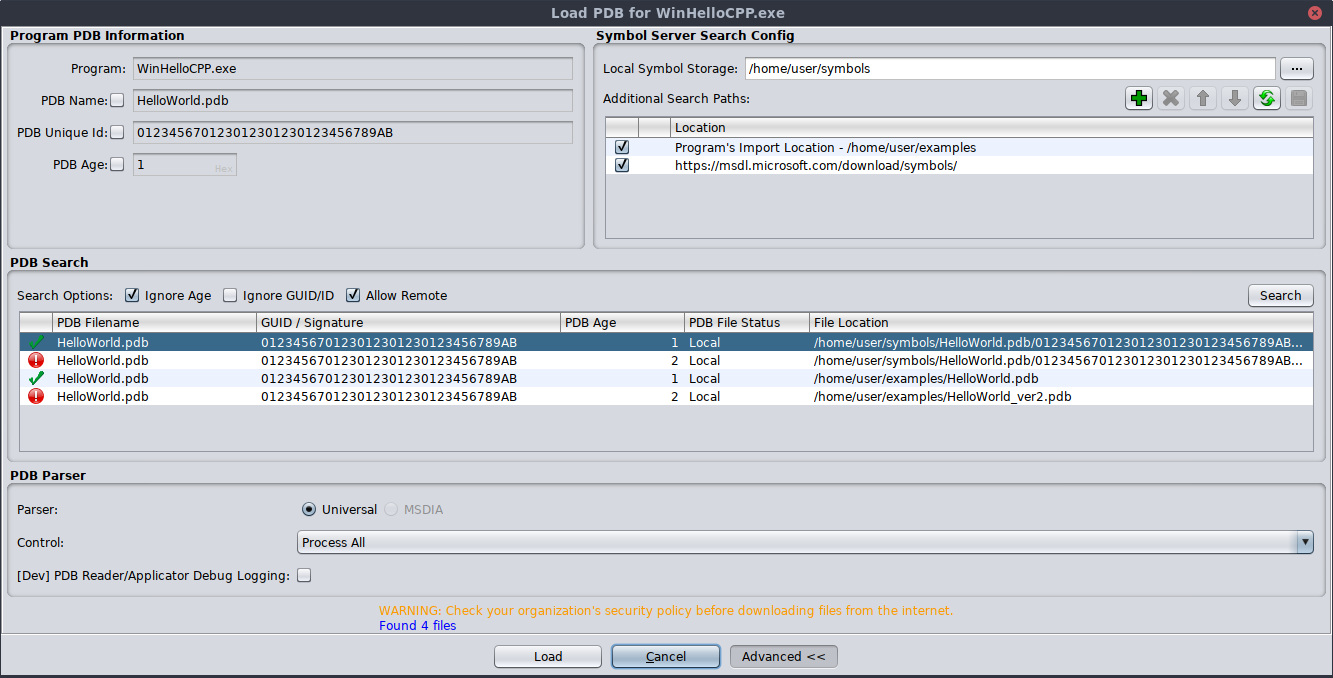
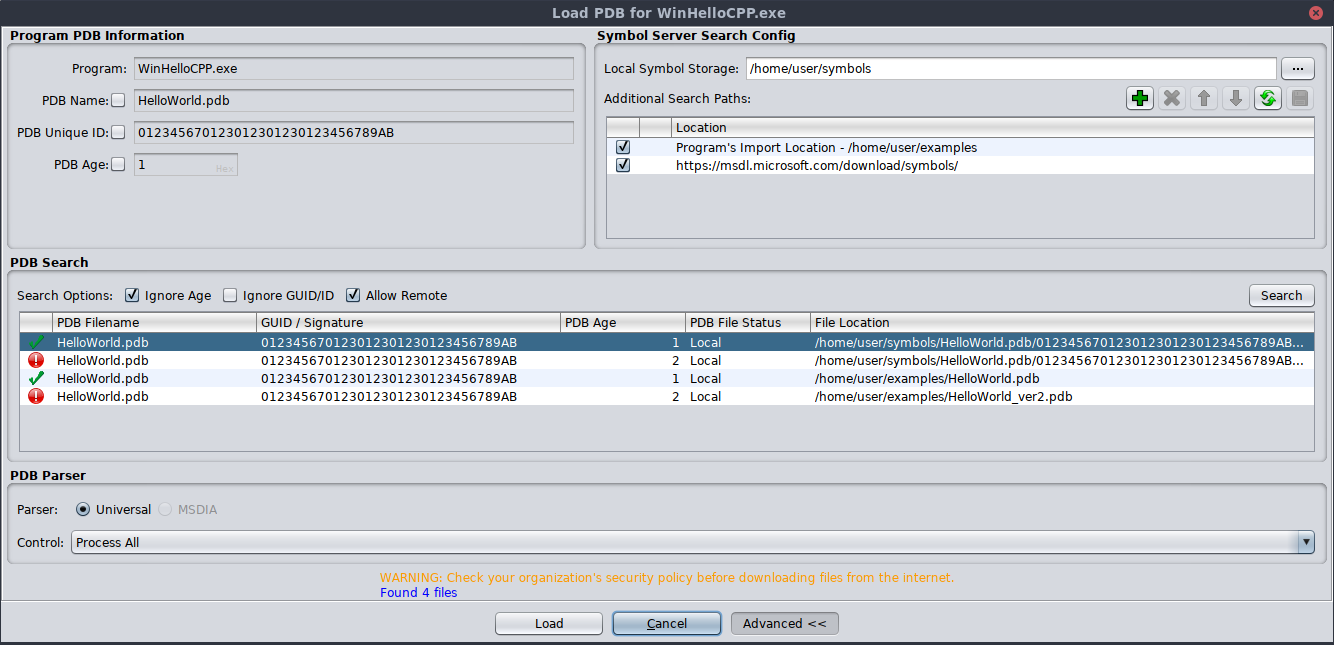
GP-42 tweak symbol dir bootstrap logic, misc text & help

Changed region(s): [[0.0, 0.3411, 1.0, 0.6512], [0.0, 0.6822, 1.0, 1.0], [0.0, 0.0, 1.0, 0.2791]]

diff --git a/Ghidra/Features/PDB/src/main/help/help/topics/Pdb/LoadPDBNew.html b/Ghidra/Features/PDB/src/main/help/help/topics/Pdb/LoadPDBNew.html
@@ -184,7 +184,7 @@
 			change the search criteria, they are not persisted to your program's metadata.</P>
 			<UL>
 				<LI><B>PDB Name Checkbox</B> - this checkbox allows entering a custom value for the desired PDB file name.</LI>
-				<LI><B>PDB Unique Id Checkbox</B> - this checkbox allows entering a custom GUID or ID value.</LI>
+				<LI><B>PDB Unique ID Checkbox</B> - this checkbox allows entering a custom GUID or ID value.</LI>
 				<LI><B>PDB Age Checkbox</B> - this checkbox allows entering a custom age value.</LI>
 			</UL>
 			<P>After changing a search option, you will need to perform another search to use the new options.</P>
@@ -198,7 +198,12 @@
 			<UL>
 				<LI><B>Universal</B> - Platform-independent PDB analyzer (No PDB.XML support).</LI>
 				<LI><B>MSDIA</B> - Legacy PDB Analyzer.  Requires MS DIA-SDK for raw PDB processing (Windows only), or preprocessed PDB.XML file.</LI>
-				<LI><B>Control</B> - Process All, Data Types Only, Public Symbols Only.</LI>
+			</UL>
+			<P><B>Control</B> (Universal only) - Controls how the PDB is applied to the Program</P>
+			<UL>
+				<LI><B>Process All</B>: Applies Data Types and Public, Global, and Module Symbols.</LI>
+				<LI><B>Data Types Only</B>: Applies Data Types and Typedefs found in the Global Symbols.</LI>
+				<LI><B>Public Symbols Only</B>: Applies only Public symbols to the program.  It ignores Global symbols and Module symbols.</LI>
 			</UL>
 		</BLOCKQUOTE>
 	</BLOCKQUOTE>

diff --git a/Ghidra/Features/PDB/src/main/java/pdb/symbolserver/LocalSymbolStore.java b/Ghidra/Features/PDB/src/main/java/pdb/symbolserver/LocalSymbolStore.java
@@ -15,9 +15,8 @@
  */
 package pdb.symbolserver;
 
-import java.util.*;
-
 import java.io.*;
+import java.util.*;
 
 import org.apache.commons.io.FilenameUtils;
 
@@ -33,6 +32,8 @@ import utilities.util.FileUtilities;
  */
 public class LocalSymbolStore extends AbstractSymbolServer implements SymbolStore {
 	private static final String ADMIN_DIRNAME = "000admin"; // per MS custom
+	private static final Set<File> ALREADY_WARNED_ABOUT =
+		Collections.synchronizedSet(new HashSet<>());
 
 	/**
 	 * Predicate that returns true if the location string is a LocalSymbolStore path
@@ -152,7 +153,47 @@ public class LocalSymbolStore extends AbstractSymbolServer implements SymbolStor
 		if (pingMeFile.isFile() && adminDir.isDirectory()) {
 			return super.detectStorageLevel(monitor);
 		}
+		return doHackyStorageLevelDetection(monitor);
+	}
+
+	private int doHackyStorageLevelDetection(TaskMonitor monitor) {
+		// dig through the files in the rootDir and see if there is anything
+		// that looks like a level1 or level2 directory.
+		if (containsPdbSymbolDirsWithFiles(rootDir)) {
+			if (ALREADY_WARNED_ABOUT.add(rootDir)) {
+				Msg.warn(this,
+					"Symbol directory missing control files, guessing storage scheme as level 1: " +
+						rootDir);
+			}
+			return 1;
+		}
+		File[] possibleLevel2SymbolDirs =
+			list(rootDir, f -> f.isDirectory() && f.getName().length() == 2);
+		for (File dir : possibleLevel2SymbolDirs) {
+			if (containsPdbSymbolDirsWithFiles(dir)) {
+				if (ALREADY_WARNED_ABOUT.add(rootDir)) {
+					Msg.warn(this,
+						"Symbol directory missing control files, guessing storage scheme as level 2: " +
+							rootDir);
+				}
+				return 2;
+			}
+		}
 		return 0;
+	}
+
+	private boolean containsPdbSymbolDirsWithFiles(File testDir) {
+		File[] possibleLevel1SymbolDirs =
+			list(testDir, f -> f.isDirectory() && f.getName().toLowerCase().endsWith(".pdb"));
+		for (File dir : possibleLevel1SymbolDirs) {
+			if (list(dir, f -> f.isDirectory() &&
+				SymbolFileInfo.fromSubdirectoryPath("doesntmatter", f.getName()) != null &&
+				new File(f, dir.getName()).isFile()).length > 0) {
+				Msg.debug(this, "Detected symbol file directory: " + dir);
+				return true;
+			}
+		}
+		return false;
 	}
 
 	@Override
@@ -294,6 +335,12 @@ public class LocalSymbolStore extends AbstractSymbolServer implements SymbolStor
 		FileUtilities.checkedMkdirs(destinationFile.getParentFile());
 		if (destinationFile.isFile()) {
 			Msg.info(this, logPrefix() + ": File already exists: " + destinationFile);
+			return relativeDestinationFilename;
+		}
+		if (destinationFile.isDirectory()) {
+			Msg.error(this, logPrefix() + ": File's location already exists and is a directory: " +
+				destinationFile);
+			Msg.error(this, logPrefix() + ": Possible symbol storage directory misconfiguration!");
 			return relativeDestinationFilename;
 		}
 

diff --git a/Ghidra/Features/PDB/src/main/java/pdb/symbolserver/ui/LoadPdbDialog.java b/Ghidra/Features/PDB/src/main/java/pdb/symbolserver/ui/LoadPdbDialog.java
@@ -331,7 +331,7 @@ public class LoadPdbDialog extends DialogComponentProvider {
 		}
 		SymbolFileInfo symbolFileInfo = getCurrentSymbolFileInfo();
 		if (symbolFileInfo == null) {
-			Msg.showWarn(this, null, "Bad PDB GUID/Id",
+			Msg.showWarn(this, null, "Bad PDB GUID/ID",
 				"Invalid PDB GUID / UID value: " + pdbUniqueIdTextField.getText());
 			return;
 		}
@@ -441,14 +441,14 @@ public class LoadPdbDialog extends DialogComponentProvider {
 		pdbUniqueIdTextField = new BetterNonEditableTextField(36);
 		pdbUniqueIdTextField.setEditable(false);
 		pdbUniqueIdTextField.setToolTipText(
-			"<html>PDB GUID - either 36 or 32 hexadecimal characters:<br>" +
-				"&nbsp;&nbsp;<b>'012345678-0123-0123-0123-0123456789ABC'</b> or <b>'0123456780123012301230123456789ABC'</b>, or<br>" +
-				"PDB Signature Id - 8 hexadecimal character Id:<br>" +
+			"<html>PDB GUID - 32 hexadecimal characters:<br>" +
+				"&nbsp;&nbsp;<b>'012345678-0123-0123-0123-0123456789ABC'</b> (with or without dashes) or<br>" +
+				"PDB Signature ID - 8 hexadecimal characters:<br>" +
 				"&nbsp;&nbsp;<b>'11223344'</b>");
 
 		overridePdbUniqueIdCheckBox = new GCheckBox();
 		overridePdbUniqueIdCheckBox.setVisible(false);
-		overridePdbUniqueIdCheckBox.setToolTipText("Override PDB unique id (when searching).");
+		overridePdbUniqueIdCheckBox.setToolTipText("Override PDB Unique ID (when searching).");
 		overridePdbUniqueIdCheckBox.addItemListener(e -> {
 			pdbUniqueIdTextField.setEditable(overridePdbUniqueIdCheckBox.isSelected());
 			if (overridePdbUniqueIdCheckBox.isSelected()) {
@@ -494,7 +494,7 @@ public class LoadPdbDialog extends DialogComponentProvider {
 			join(null, new GLabel("PDB Name:", SwingConstants.RIGHT), overridePdbPathCheckBox));
 		programPdbPanel.add(pdbPathTextField);
 
-		programPdbPanel.add(join(null, new GLabel("PDB Unique Id:", SwingConstants.RIGHT),
+		programPdbPanel.add(join(null, new GLabel("PDB Unique ID:", SwingConstants.RIGHT),
 			overridePdbUniqueIdCheckBox));
 		programPdbPanel.add(pdbUniqueIdTextField);
 
@@ -574,6 +574,7 @@ public class LoadPdbDialog extends DialogComponentProvider {
 		radioButtons.add(msdiaParserButton);
 
 		applicatorControlCombo = new GComboBox<>(PdbApplicatorControl.values());
+		applicatorControlCombo.setToolTipText("Selects which subsets of information to parse.");
 		applicatorControlCombo.setSelectedItem(PdbApplicatorControl.ALL);
 
 		parserOptionsPanel = new JPanel(new PairLayout(5, 5));

diff --git a/Ghidra/Features/PDB/src/main/java/pdb/symbolserver/ui/SymbolServerPanel.java b/Ghidra/Features/PDB/src/main/java/pdb/symbolserver/ui/SymbolServerPanel.java
@@ -266,6 +266,8 @@ class SymbolServerPanel extends JPanel {
 	private JPanel buildSymbolStorageLocationPanel() {
 		symbolStorageLocationTextField = new HintTextField(" Required ");
 		symbolStorageLocationTextField.setEditable(false);
+		symbolStorageLocationTextField
+				.setToolTipText("User-specified directory where PDB files are stored.  Required.");
 
 		chooseSymbolStorageLocationButton =
 			ButtonPanelFactory.createButton(ButtonPanelFactory.BROWSE_TYPE);
@@ -273,8 +275,8 @@ class SymbolServerPanel extends JPanel {
 
 		symbolStorageLocationPanel = new JPanel(new PairLayout(5, 5));
 		GLabel symbolStorageLocLabel = new GLabel("Local Symbol Storage:", SwingConstants.RIGHT);
-		symbolStorageLocLabel
-				.setToolTipText("User-specified directory where PDB files are stored.  Required.");
+		symbolStorageLocLabel.setToolTipText(symbolStorageLocationTextField.getToolTipText());
+
 		symbolStorageLocationPanel.add(symbolStorageLocLabel);
 		symbolStorageLocationPanel.add(LoadPdbDialog.join(null, symbolStorageLocationTextField,
 			chooseSymbolStorageLocationButton));
